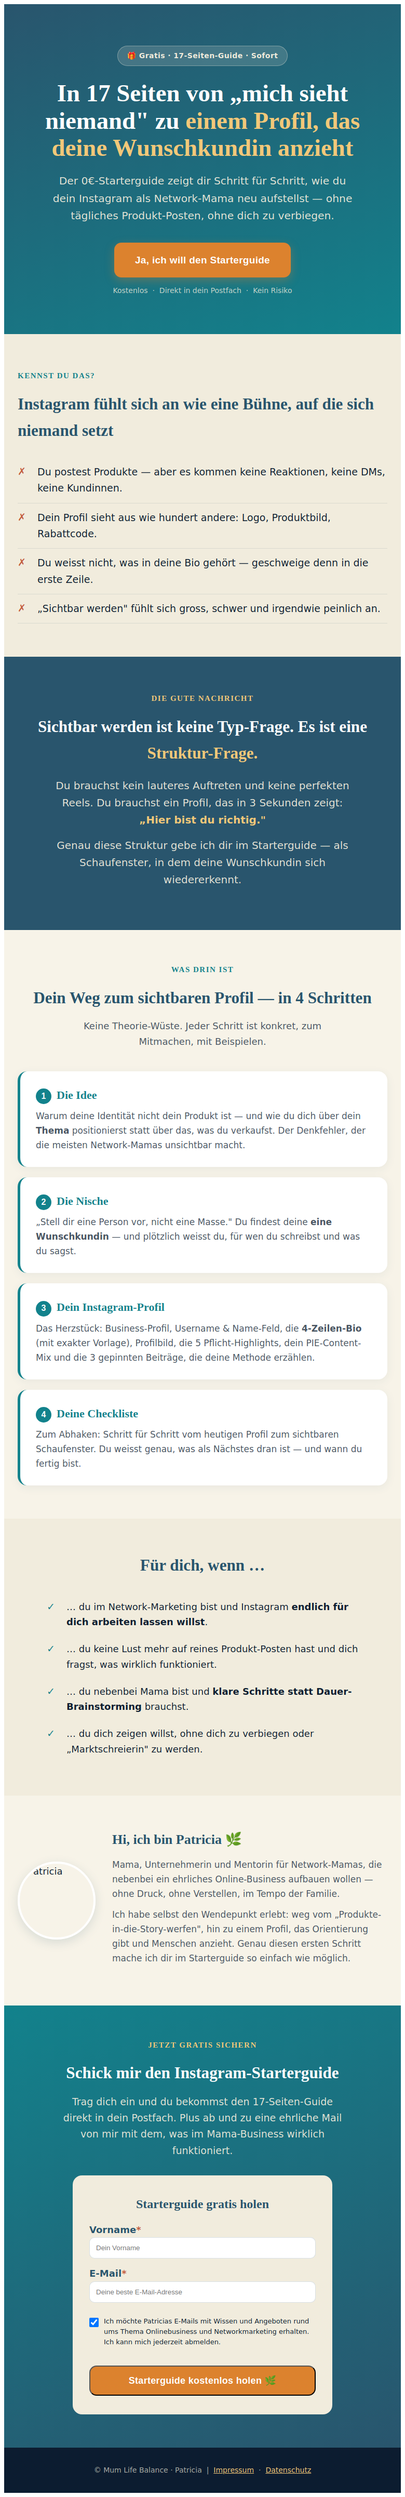
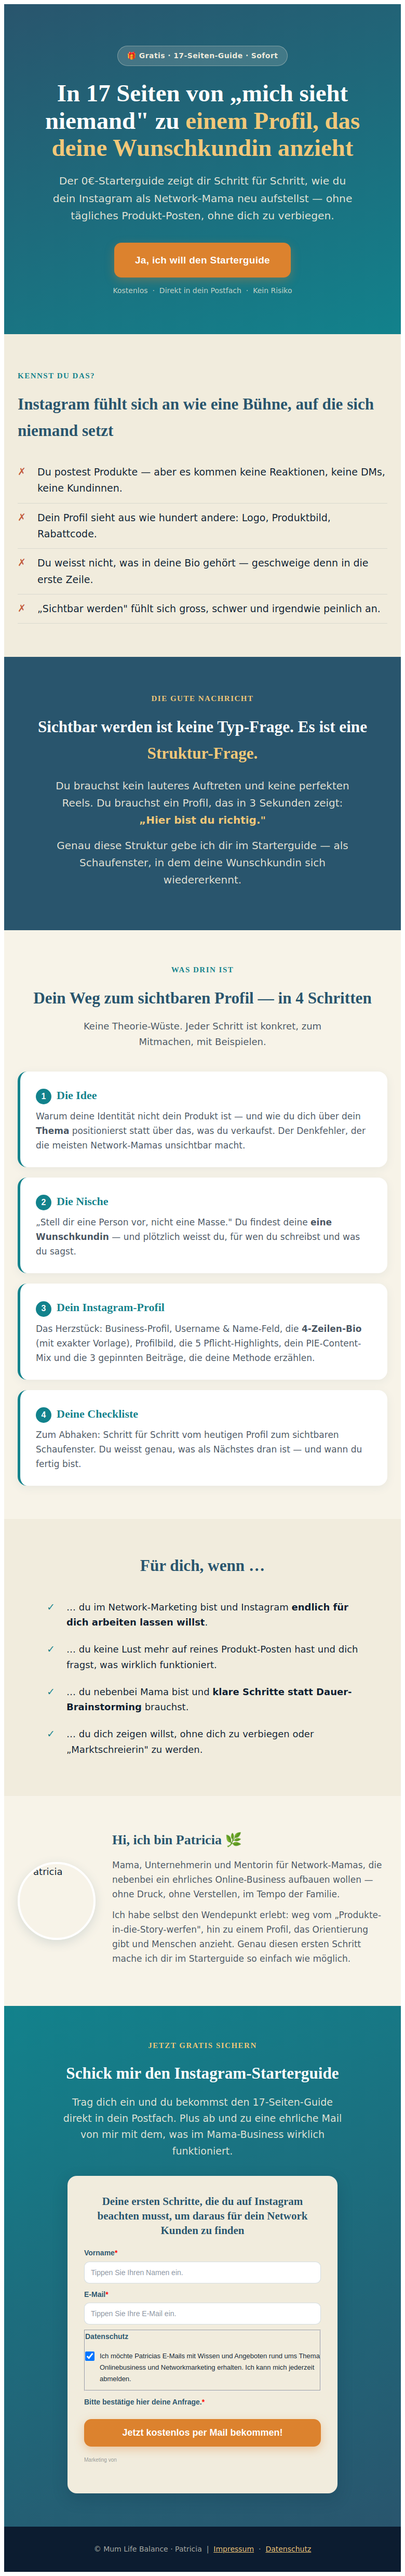
Starterguide-Landing: echtes AC-Formular #53 eingesetzt
- Platzhalter durch Patricias AC-Embed (Form 53, Token db2daad7...)
  ersetzt — inkl. reCAPTCHA + AC-Submit-Script
- Brand-Override nach dem Embed (Creme-Karte, Petrol-Titel, Orange-Button)
- briefing.md + active-funnels.json TODO-Status aktualisiert
- Preview neu gerendert

https://claude.ai/code/session_01S6q6n3ALuiBtnrG9B5yQJN

Changed region(s): [[0.0, 0.0, 1.0, 0.9988]]

diff --git a/outputs/funnels/0-euro-starterguide/landing/index.html b/outputs/funnels/0-euro-starterguide/landing/index.html
@@ -128,21 +128,9 @@
 .slg-optin h2 { font-size: clamp(26px, 4vw, 36px); color: #ffffff; margin-bottom: 14px; }
 .slg-optin > .slg-inner > p { color: rgba(241,236,221,0.94); font-size: 19px; max-width: 540px; margin: 0 auto 32px; }
 
-/* ---------- AC FORM Brand-Override ---------- */
-#_form_STG_ { max-width: 500px; margin: 0 auto !important; background: #f1ecdd !important; padding: 36px 32px !important; border-radius: 18px !important; color-scheme: light only; text-align: left; }
-#_form_STG_ ._submit { background: #dc822e !important; color: #ffffff !important; font-weight: 700 !important; padding: 16px 32px !important; font-size: 18px !important; border-radius: 14px !important; letter-spacing: 0.3px !important; width: 100% !important; margin-top: 8px !important; cursor: pointer !important; transition: transform 0.12s ease, box-shadow 0.2s ease !important; font-family: 'Source Sans 3', sans-serif !important; }
-#_form_STG_ ._submit:hover { transform: translateY(-2px); box-shadow: 0 8px 22px rgba(220, 130, 46, 0.4); }
-#_form_STG_ ._submit:after { content: "Starterguide kostenlos holen 🌿"; }
-#_form_STG_ ._form-title { font-family: 'Philosopher', Georgia, serif !important; color: #29556d !important; font-size: 24px !important; font-weight: 700 !important; margin-bottom: 14px !important; text-align: center !important; }
-#_form_STG_ ._form-label, #_form_STG_ ._form_element ._form-label { color: #29556d !important; font-weight: 700 !important; }
-#_form_STG_ input[type="text"], #_form_STG_ input[type="email"] { background: #ffffff !important; border: 1.5px solid rgba(41,85,109,0.18) !important; border-radius: 10px !important; padding: 12px !important; width: 100% !important; }
-#_form_STG_ ._row._checkbox-radio { display: flex !important; align-items: flex-start !important; gap: 10px !important; padding: 12px 0 !important; }
-#_form_STG_ ._row._checkbox-radio input[type="checkbox"] { margin-top: 3px !important; flex-shrink: 0 !important; width: 18px !important; height: 18px !important; }
-#_form_STG_ ._row._checkbox-radio span { display: block !important; flex: 1 !important; }
-#_form_STG_ ._row._checkbox-radio label { color: #0c1c30 !important; font-size: 13px !important; line-height: 1.55 !important; font-weight: 400 !important; display: block !important; }
-#_form_STG_ ._form_element { margin-bottom: 14px; }
-#_form_STG_ ._field-wrapper { position: relative; }
-#_form_STG_ .field-required { color: #c25a3c; }
+/* (AC-Formular #53 bringt eigene Styles mit; Brand-Override steht
+   als eigener <style>-Block direkt NACH dem Embed weiter unten,
+   damit er die AC-Defaults zuverlässig überschreibt.) */
 
 /* ---------- FOOTER ---------- */
 .slg-foot { background: #0c1c30; color: rgba(241,236,221,0.7); text-align: center; padding: 32px 0; font-size: 14px; }
@@ -254,62 +242,287 @@
       <p>Trag dich ein und du bekommst den 17-Seiten-Guide direkt in dein Postfach. Plus ab und zu eine ehrliche Mail von mir mit dem, was im Mama-Business wirklich funktioniert.</p>
 
       <!-- ============================================================
-        ⚠  ACTIVECAMPAIGN-FORMULAR — PLATZHALTER
-        ------------------------------------------------------------
-        Dieses Formular ist die Bio-Check-Vorlage, umbenannt auf _STG_.
-        BEVOR LIVE: In ActiveCampaign ein eigenes Formular für den
-        „Instagram-Starterguide" anlegen (mit Automation: PDF senden)
-        und folgende 4 Werte ersetzen:
-          1. action-URL bleibt: https://mumlifebalance.activehosted.com/proc.php
-          2. name="u"  value=""  → AC-Form-ID eintragen
-          3. name="f"  value=""  → AC-Form-ID eintragen (gleich wie u)
-          4. name="or" value=""  → AC-Form-Token (or-Hash) eintragen
-        Den fertigen AC-Embed-Code kannst du auch komplett hier reinkopieren —
-        nur die Brand-Override-Styles (#_form_STG_) auf die neue Form-ID anpassen.
+        ACTIVECAMPAIGN-FORMULAR #53 (Instagram-Starterguide)
+        Token: db2daad7-aa19-4b73-a6de-63c5735b0fc0
+        Original-Embed von Patricia eingesetzt am 2026-06-10.
+        Brand-Override-Styles stehen als <style>-Block direkt NACH dem
+        Embed (damit sie die AC-Default-Styles überschreiben).
         ============================================================ -->
-      <form method="POST" action="https://mumlifebalance.activehosted.com/proc.php" id="_form_STG_" class="_form _form_STG _inline-form" novalidate data-styles-version="5">
-        <input type="hidden" name="u" value="STARTERGUIDE_AC_FORM_ID" />
-        <input type="hidden" name="f" value="STARTERGUIDE_AC_FORM_ID" />
+      <!-- ===== AC-Embed #53 (Original von Patricia) ===== -->
+      <style>
+      #_form_53_{font-size:14px;line-height:1.6;font-family:arial, helvetica, sans-serif;margin:0;box-shadow:none}._form_hide{display:none;visibility:hidden}._form_show{display:block;visibility:visible}#_form_53_._form-top{top:0}#_form_53_._form-bottom{bottom:0}#_form_53_._form-left{left:0}#_form_53_._form-right{right:0}#_form_53_ input[type="text"],#_form_53_ input[type="tel"],#_form_53_ input[type="date"],#_form_53_ textarea{padding:8px;height:auto;border:#979797 1px solid;border-radius:4px;color:#000 !important;font-size:14px;box-sizing:border-box}#_form_53_ textarea{resize:none}#_form_53_ input::placeholder{color:#142341}#_form_53_ ._submit{cursor:pointer;font-family:arial, sans-serif;font-size:14px;text-align:center;background:#ffffff !important;border:0 !important;border-radius:4px !important;color:#080808 !important;padding:10px !important}#_form_53_ ._submit:disabled{cursor:not-allowed;opacity:0.4}#_form_53_ ._close-icon{cursor:pointer;background-image:url("https://d226aj4ao1t61q.cloudfront.net/esfkyjh1u_forms-close-dark.png");background-repeat:no-repeat;background-size:14.2px 14.2px;position:absolute;display:block;top:11px;right:9px;overflow:hidden;width:16.2px;height:16.2px}#_form_53_ ._form-body{font-family:sans-serif;font-size:14px;font-weight:400;color:black;margin-bottom:30px}#_form_53_ ._form-branding{color:#fff;font-size:10px;clear:both;text-align:left;margin-top:30px;font-weight:100}#_form_53_ ._form-branding ._logo{display:block;width:130px;height:14px;margin-top:6px;background-image:url("https://d226aj4ao1t61q.cloudfront.net/hh9ujqgv5_aclogo_li.png");background-size:130px auto;background-repeat:no-repeat}#_form_53_ .form-sr-only{position:absolute;width:1px;height:1px;padding:0;margin:-1px;overflow:hidden;clip:rect(0, 0, 0, 0);border:0}#_form_53_ ._form-label,#_form_53_ ._form_element ._form-label{font-weight:bold;margin-bottom:5px;display:block}#_form_53_ ._form_element{position:relative;margin-bottom:10px;max-width:100%}#_form_53_ ._form_element *{font-size:14px}#_form_53_ ._form_element._clear{clear:both;width:100%;float:none}#_form_53_ ._form_element._clear:after{clear:left}#_form_53_ ._form_element input[type="text"],#_form_53_ ._form_element input[type="date"],#_form_53_ ._form_element select,#_form_53_ ._form_element textarea:not(.g-recaptcha-response){display:block;width:100%;box-sizing:border-box;font-family:inherit}#_form_53_ ._field-wrapper{position:relative}#_form_53_ ._form_full_field{display:block;width:100%;margin-bottom:10px}#_form_53_ input[type="text"]._has_error,#_form_53_ textarea._has_error{border:#F37C7B 1px solid}#_form_53_ input[type="checkbox"]._has_error{outline:#F37C7B 1px solid}#_form_53_ ._error{display:block;position:absolute;font-size:14px;z-index:10000001}#_form_53_ ._error._above{padding-bottom:4px;bottom:39px;right:0}#_form_53_ ._error._below{padding-top:8px;top:100%;right:0}#_form_53_ ._error-inner{padding:12px 12px 12px 36px;background-color:#FFDDDD;background-repeat:no-repeat;background-position:12px center;font-size:14px;font-family:arial, sans-serif;font-weight:600;line-height:16px;color:#000;text-align:center;text-decoration:none;border-radius:4px;box-shadow:0 1px 4px rgba(31, 33, 41, 0.298295)}#_form_53_ ._error-inner._form_error{margin-bottom:5px;text-align:left}#_form_53_ ._error-inner._no_arrow{margin-bottom:10px}#_form_53_ ._error-arrow{position:absolute;width:0;height:0}#_form_53_ ._error-html{margin-bottom:10px}#_form_53_ ._form-title{font-family:sans-serif;font-size:24px;font-weight:400;color:black}#_form_53_ .field-required{color:#FF0000}#_form_53_{position:relative;text-align:left;margin:25px auto 0;padding:20px;box-sizing:border-box;background:#dc822e !important;border:0px solid #b0b0b0 !important;max-width:500px;border-radius:0px !important;color:#000000}#_form_53_._inline-form ._form-label,#_form_53_._inline-form ._form-checkbox-option-label{font-family:sans-serif;font-size:14px;font-weight:700;line-height:1.6em;color:black}#_form_53_._inline-form ._row span:not(.field-required),#_form_53_._inline-form ._row label{font-family:sans-serif;font-size:14px;font-weight:400;line-height:1.6em;color:black}#_form_53_ ._form-thank-you{position:relative;left:0;right:0;text-align:center;font-size:18px}#_form_53_ .g-recaptcha{margin-top:10px}
+      </style>
+      <form method="POST" action="https://mumlifebalance.activehosted.com/proc.php" id="_form_53_" class="_form _form_53 _inline-form  " novalidate data-styles-version="5">
+        <input type="hidden" name="u" value="53" />
+        <input type="hidden" name="f" value="53" />
         <input type="hidden" name="s" />
         <input type="hidden" name="c" value="0" />
         <input type="hidden" name="m" value="0" />
         <input type="hidden" name="act" value="sub" />
         <input type="hidden" name="v" value="2" />
-        <input type="hidden" name="or" value="STARTERGUIDE_AC_TOKEN" />
+        <input type="hidden" name="or" value="db2daad7-aa19-4b73-a6de-63c5735b0fc0" />
         <div class="_form-content">
-          <div class="_form_element _full_width _clear">
-            <h2 class="_form-title">Starterguide gratis holen</h2>
+          <div class="_form_element _x07614776 _full_width _clear">
+            <h2 class="_form-title">Deine ersten Schritte, die du auf Instagram beachten musst, um daraus für dein Network Kunden zu finden</h2>
           </div>
-          <div class="_form_element _full_width">
-            <label for="stg_fullname" class="_form-label">Vorname<span class="field-required">*</span></label>
+          <div class="_form_element _x85148327 _full_width">
+            <label for="fullname" class="_form-label">Vorname<span class="field-required">*</span></label>
             <div class="_field-wrapper">
-              <input type="text" id="stg_fullname" name="fullname" placeholder="Dein Vorname" required />
+              <input type="text" id="fullname" name="fullname" placeholder="Tippen Sie Ihren Namen ein." required/>
             </div>
           </div>
-          <div class="_form_element _full_width">
-            <label for="stg_email" class="_form-label">E-Mail<span class="field-required">*</span></label>
+          <div class="_form_element _x44803942 _full_width">
+            <label for="email" class="_form-label">E-Mail<span class="field-required">*</span></label>
             <div class="_field-wrapper">
-              <input type="text" id="stg_email" name="email" placeholder="Deine beste E-Mail-Adresse" required />
+              <input type="text" id="email" name="email" placeholder="Tippen Sie Ihre E-Mail ein." required/>
             </div>
           </div>
-          <div class="_form_element _full_width">
-            <fieldset class="_form-fieldset" style="border:0;padding:0;margin:0;">
+          <div class="_form_element _x25783284 _full_width">
+            <fieldset class="_form-fieldset">
+              <div class="_row">
+                <legend for="field[1][]" class="_form-label">Datenschutz</legend>
+              </div>
               <input data-autofill="false" type="hidden" id="field[1][]" name="field[1][]" value="~|">
               <div class="_row _checkbox-radio">
-                <input id="stg_consent" type="checkbox" name="field[1][]" value="Ich möchte Patricias E-Mails mit Wissen und Angeboten rund ums Thema Onlinebusiness und Networkmarketing erhalten. Ich kann mich jederzeit abmelden." checked>
+                <input id="field_1consent" type="checkbox" name="field[1][]" value="Ich möchte Patricias E-Mails mit Wissen und Angeboten rund ums Thema Onlinebusiness und Networkmarketing erhalten. Ich kann mich jederzeit abmelden." checked>
                 <span>
-                  <label for="stg_consent">Ich möchte Patricias E-Mails mit Wissen und Angeboten rund ums Thema Onlinebusiness und Networkmarketing erhalten. Ich kann mich jederzeit abmelden.</label>
+                  <label for="field_1consent">Ich möchte Patricias E-Mails mit Wissen und Angeboten rund ums Thema Onlinebusiness und Networkmarketing erhalten. Ich kann mich jederzeit abmelden.</label>
                 </span>
               </div>
             </fieldset>
           </div>
+          <div class="_form_element _x47057123 _full_width">
+            <label for="g-recaptcha-response" class="_form-label">Bitte bestätige hier deine Anfrage.<span class="field-required">*</span></label>
+            <div class="g-recaptcha" data-sitekey="6LcwIw8TAAAAACP1ysM08EhCgzd6q5JAOUR1a0Go"></div>
+          </div>
           <div class="_button-wrapper _full_width">
-            <button id="_form_STG_submit" class="_submit" type="submit"></button>
+            <button id="_form_53_submit" class="_submit" type="submit">Jetzt kostenlos per Mail bekommen!</button>
           </div>
           <div class="_clear-element"></div>
         </div>
         <div class="_form-thank-you" style="display:none;"></div>
+        <div class="_form-branding">
+          <div class="_marketing-by">Marketing von</div>
+          <a href="https://www.activecampaign.com/?utm_medium=referral&utm_campaign=acforms" class="_logo"><span class="form-sr-only">ActiveCampaign</span></a>
+        </div>
       </form>
+      <script>
+      window.cfields = {"1":"datenschutz"};
+      window._show_thank_you = function(id, message, trackcmp_url, email) {
+          var form = document.getElementById('_form_' + id + '_'), thank_you = form.querySelector('._form-thank-you');
+          form.querySelector('._form-content').style.display = 'none';
+          thank_you.innerHTML = message;
+          thank_you.style.display = 'block';
+          const vgoAlias = typeof visitorGlobalObjectAlias === 'undefined' ? 'vgo' : visitorGlobalObjectAlias;
+          var visitorObject = window[vgoAlias];
+          if (email && typeof visitorObject !== 'undefined') {
+              visitorObject('setEmail', email);
+              visitorObject('update');
+          } else if (typeof(trackcmp_url) != 'undefined' && trackcmp_url) {
+              _load_script(trackcmp_url);
+          }
+          if (typeof window._form_callback !== 'undefined') window._form_callback(id);
+          thank_you.setAttribute('tabindex', '-1');
+          thank_you.focus();
+      };
+      window._show_error = function(id, message, html) {
+          var form = document.getElementById('_form_' + id + '_'),
+              err = document.createElement('div'),
+              button = form.querySelector('button[type="submit"]'),
+              old_error = form.querySelector('._form_error');
+          if (old_error) old_error.parentNode.removeChild(old_error);
+          err.innerHTML = message;
+          err.className = '_error-inner _form_error _no_arrow';
+          var wrapper = document.createElement('div');
+          wrapper.className = '_form-inner _show_be_error';
+          wrapper.appendChild(err);
+          button.parentNode.insertBefore(wrapper, button);
+          var submitButton = form.querySelector('[id^="_form"][id$="_submit"]');
+          submitButton.disabled = false;
+          submitButton.classList.remove('processing');
+          if (html) {
+              var div = document.createElement('div');
+              div.className = '_error-html';
+              div.innerHTML = html;
+              err.appendChild(div);
+          }
+      };
+      window._load_script = function(url, callback, isSubmit) {
+          var head = document.querySelector('head'), script = document.createElement('script'), r = false;
+          var submitButton = document.querySelector('#_form_53_submit');
+          script.charset = 'utf-8';
+          script.src = url;
+          if (callback) {
+              script.onload = script.onreadystatechange = function() {
+                  if (!r && (!this.readyState || this.readyState == 'complete')) { r = true; callback(); }
+              };
+          }
+          script.onerror = function() {
+              if (isSubmit) {
+                  if (script.src.length > 10000) {
+                      _show_error("53", "Ihre Übermittlung konnte nicht gesendet werden. Bitte kürzen Sie Ihre Antworten und versuche es erneut.");
+                  } else {
+                      _show_error("53", "Ihre Übermittlung konnte nicht gesendet werden. Bitte versuchen Sie es erneut.");
+                  }
+                  submitButton.disabled = false;
+                  submitButton.classList.remove('processing');
+              }
+          }
+          head.appendChild(script);
+      };
+      (function() {
+          if (window.location.search.search("excludeform") !== -1) return false;
+          var addEvent = function(element, event, func) {
+              if (element.addEventListener) { element.addEventListener(event, func); }
+              else { var oldFunc = element['on' + event]; element['on' + event] = function() { oldFunc.apply(this, arguments); func.apply(this, arguments); }; }
+          }
+          var form_to_submit = document.getElementById('_form_53_');
+          var allInputs = form_to_submit.querySelectorAll('input, select, textarea'), tooltips = [], submitted = false;
+          var getUrlParam = function(name) {
+              var params = new URLSearchParams(window.location.search);
+              return params.get(name) || false;
+          };
+          for (var i = 0; i < allInputs.length; i++) {
+              var regexStr = "field\\[(\\d+)\\]";
+              var results = new RegExp(regexStr).exec(allInputs[i].name);
+              allInputs[i].dataset.name = results ? window.cfields[results[1]] : allInputs[i].name;
+              var fieldVal = getUrlParam(allInputs[i].dataset.name);
+              if (fieldVal && allInputs[i].dataset.autofill !== "false") {
+                  if (allInputs[i].type == "radio" || allInputs[i].type == "checkbox") {
+                      if (allInputs[i].value == fieldVal) allInputs[i].checked = true;
+                  } else { allInputs[i].value = fieldVal; }
+              }
+          }
+          var remove_tooltips = function() { for (var i = 0; i < tooltips.length; i++) { tooltips[i].tip.parentNode.removeChild(tooltips[i].tip); } tooltips = []; };
+          var remove_tooltip = function(elem) { for (var i = 0; i < tooltips.length; i++) { if (tooltips[i].elem === elem) { tooltips[i].tip.parentNode.removeChild(tooltips[i].tip); tooltips.splice(i, 1); return; } } };
+          var create_tooltip = function(elem, text) {
+              var tooltip = document.createElement('div'), arrow = document.createElement('div'), inner = document.createElement('div'), new_tooltip = {};
+              tooltip.id = elem.id + '-error'; tooltip.setAttribute('role', 'alert');
+              if (elem.type != 'radio' && (elem.type != 'checkbox' || elem.name === 'sms_consent')) {
+                  tooltip.className = '_error'; arrow.className = '_error-arrow'; inner.className = '_error-inner'; inner.innerHTML = text;
+                  tooltip.appendChild(arrow); tooltip.appendChild(inner); elem.parentNode.appendChild(tooltip);
+              } else {
+                  tooltip.className = '_error-inner _no_arrow'; tooltip.innerHTML = text; elem.parentNode.insertBefore(tooltip, elem); new_tooltip.no_arrow = true;
+              }
+              new_tooltip.tip = tooltip; new_tooltip.elem = elem; tooltips.push(new_tooltip); return new_tooltip;
+          };
+          var resize_tooltip = function(tooltip) {
+              var rect = tooltip.elem.getBoundingClientRect();
+              var doc = document.documentElement, scrollPosition = rect.top - ((window.pageYOffset || doc.scrollTop) - (doc.clientTop || 0));
+              tooltip.tip.className = tooltip.tip.className.replace(/ ?(_above|_below) ?/g, '') + (scrollPosition < 40 ? ' _below' : ' _above');
+          };
+          var resize_tooltips = function() { for (var i = 0; i < tooltips.length; i++) { if (!tooltips[i].no_arrow) resize_tooltip(tooltips[i]); } };
+          var validate_field = function(elem, remove) {
+              var tooltip = null, value = elem.value, no_error = true;
+              remove ? remove_tooltip(elem) : false;
+              elem.removeAttribute('aria-invalid');
+              if (elem.type != 'checkbox') elem.className = elem.className.replace(/ ?_has_error ?/g, '');
+              if (elem.getAttribute('required') !== null) {
+                  if (elem.type == 'radio' || (elem.type == 'checkbox' && /any/.test(elem.className))) {
+                      var elems = form_to_submit.elements[elem.name];
+                      if (!(elems instanceof NodeList || elems instanceof HTMLCollection) || elems.length <= 1) { no_error = elem.checked; }
+                      else { no_error = false; for (var i = 0; i < elems.length; i++) { if (elems[i].checked) no_error = true; } }
+                      if (!no_error) { tooltip = create_tooltip(elem, "Bitte eine Option auswählen."); }
+                  } else if (elem.type == 'checkbox') {
+                      var elems = form_to_submit.elements[elem.name], found = false, err = [];
+                      no_error = true;
+                      for (var i = 0; i < elems.length; i++) {
+                          if (elems[i].getAttribute('required') === null) continue;
+                          if (!found && elems[i] !== elem) return true;
+                          found = true; elems[i].className = elems[i].className.replace(/ ?_has_error ?/g, '');
+                          if (!elems[i].checked) { no_error = false; elems[i].className = elems[i].className + ' _has_error'; err.push("Die Markierung von %s ist erforderlich.".replace("%s", elems[i].value)); }
+                      }
+                      if (!no_error) { tooltip = create_tooltip(elem, err.join('<br/>')); }
+                  } else if (value === undefined || value === null || value === '') {
+                      elem.className = elem.className + ' _has_error'; no_error = false; tooltip = create_tooltip(elem, "Bitte füllen Sie das markierte Pflichtfeld aus.");
+                  }
+              }
+              if (no_error && elem.name == 'email') {
+                  if (!value.match(/^[\+_a-z0-9-'&=]+(\.[\+_a-z0-9-']+)*@[a-z0-9-]+(\.[a-z0-9-]+)*(\.[a-z]{2,})$/i)) {
+                      elem.className = elem.className + ' _has_error'; no_error = false; tooltip = create_tooltip(elem, "Geben Sie eine gültige E-Mail-Adresse ein.");
+                  }
+              }
+              tooltip ? resize_tooltip(tooltip) : false;
+              return no_error;
+          };
+          var needs_validate = function(el) {
+              if (el.getAttribute('required') !== null) return true;
+              if (el.name === 'email' && el.value !== "") return true;
+              return false;
+          };
+          var validate_form = function(e) {
+              var no_error = true;
+              if (!submitted) {
+                  submitted = true;
+                  for (var i = 0, len = allInputs.length; i < len; i++) {
+                      var input = allInputs[i];
+                      if (needs_validate(input)) {
+                          if (input.type == 'text' || input.type == 'number' || input.type == 'tel') {
+                              addEvent(input, 'blur', function() { this.value = this.value.trim(); validate_field(this, true); });
+                              addEvent(input, 'input', function() { validate_field(this, true); });
+                          } else if (input.type == 'radio' || input.type == 'checkbox') {
+                              (function(el) {
+                                  var radios = Array.isArray(form_to_submit.elements[el.name]) ? form_to_submit.elements[el.name] : [form_to_submit.elements[el.name]];
+                                  for (var i = 0; i < radios.length; i++) { addEvent(radios[i], 'change', function() { validate_field(el, true); }); }
+                              })(input);
+                          }
+                      }
+                  }
+              }
+              remove_tooltips();
+              for (var i = 0, len = allInputs.length; i < len; i++) {
+                  var elem = allInputs[i];
+                  if (needs_validate(elem)) { if (elem.tagName.toLowerCase() !== "select") { elem.value = elem.value.trim(); } validate_field(elem) ? true : no_error = false; }
+              }
+              if (!no_error && e) { e.preventDefault(); }
+              resize_tooltips();
+              return no_error;
+          };
+          addEvent(window, 'resize', resize_tooltips);
+          addEvent(window, 'scroll', resize_tooltips);
+          window['recaptcha_callback'] = function() {
+              var recaptchas = document.getElementsByClassName("g-recaptcha");
+              for (var i in recaptchas) {
+                  var recaptcha_id = "recaptcha_" + i;
+                  recaptchas[i].id = recaptcha_id;
+                  var el = document.getElementById(recaptcha_id);
+                  if (el != null) { grecaptcha.render(recaptcha_id, {"sitekey": el.getAttribute("data-sitekey"), "stoken": el.getAttribute("data-stoken")}); }
+              }
+          };
+          _load_script("https://www.google.com/recaptcha/api.js?onload=recaptcha_callback&render=explicit");
+          var _form_serialize = function(form){if(!form||form.nodeName!=="FORM"){return }var i,j,q=[];for(i=0;i<form.elements.length;i++){if(form.elements[i].name===""){continue}switch(form.elements[i].nodeName){case"INPUT":switch(form.elements[i].type){case"text":case"number":case"date":case"time":case"hidden":case"password":case"button":case"reset":case"submit":q.push(form.elements[i].name+"="+encodeURIComponent(form.elements[i].value));break;case"checkbox":case"radio":if(form.elements[i].checked){q.push(form.elements[i].name+"="+encodeURIComponent(form.elements[i].value))}break;case"file":break}break;case"TEXTAREA":q.push(form.elements[i].name+"="+encodeURIComponent(form.elements[i].value));break;case"SELECT":switch(form.elements[i].type){case"select-one":q.push(form.elements[i].name+"="+encodeURIComponent(form.elements[i].value));break;case"select-multiple":for(j=0;j<form.elements[i].options.length;j++){if(form.elements[i].options[j].selected){q.push(form.elements[i].name+"="+encodeURIComponent(form.elements[i].options[j].value))}}break}break;case"BUTTON":switch(form.elements[i].type){case"reset":case"submit":case"button":q.push(form.elements[i].name+"="+encodeURIComponent(form.elements[i].value));break}break}}return q.join("&")};
+          var form_submit = function(e) {
+              e.preventDefault();
+              if (validate_form()) {
+                  var submitButton = e.target.querySelector('#_form_53_submit');
+                  submitButton.disabled = true;
+                  submitButton.classList.add('processing');
+                  var serialized = _form_serialize(document.getElementById('_form_53_')).replace(/%0A/g, '\\n');
+                  var err = form_to_submit.querySelector('._form_error');
+                  err ? err.parentNode.removeChild(err) : false;
+                  _load_script('https://mumlifebalance.activehosted.com/proc.php?' + serialized + '&jsonp=true', null, true);
+              }
+              return false;
+          };
+          addEvent(form_to_submit, 'submit', form_submit);
+      })();
+      </script>
+      <!-- ===== Brand-Override (steht NACH dem Embed → gewinnt) ===== -->
+      <style>
+      #_form_53_ { max-width: 520px !important; margin: 0 auto !important; background: #f1ecdd !important; padding: 36px 32px !important; border-radius: 18px !important; color-scheme: light only; box-shadow: 0 10px 30px rgba(12,28,48,0.18) !important; }
+      #_form_53_ ._form-title { font-family: 'Philosopher', Georgia, serif !important; color: #29556d !important; font-size: 21px !important; font-weight: 700 !important; line-height: 1.32 !important; margin-bottom: 18px !important; text-align: center !important; }
+      #_form_53_ ._form-label, #_form_53_ ._form_element ._form-label, #_form_53_ legend._form-label { color: #29556d !important; font-weight: 700 !important; }
+      #_form_53_ input[type="text"], #_form_53_ input[type="email"] { background: #ffffff !important; border: 1.5px solid rgba(41,85,109,0.2) !important; border-radius: 10px !important; padding: 12px !important; color: #0c1c30 !important; }
+      #_form_53_ input::placeholder { color: #8a93a0 !important; }
+      #_form_53_ ._submit { background: #dc822e !important; color: #ffffff !important; font-family: 'Source Sans 3', sans-serif !important; font-weight: 700 !important; font-size: 18px !important; padding: 16px 28px !important; border-radius: 14px !important; width: 100% !important; margin-top: 12px !important; cursor: pointer !important; transition: transform 0.12s ease, box-shadow 0.2s ease !important; box-shadow: 0 6px 18px rgba(220,130,46,0.35) !important; }
+      #_form_53_ ._submit:hover { transform: translateY(-2px); box-shadow: 0 10px 26px rgba(220,130,46,0.45) !important; }
+      #_form_53_ ._row._checkbox-radio { display: flex !important; align-items: flex-start !important; gap: 10px !important; padding: 10px 0 !important; }
+      #_form_53_ ._row._checkbox-radio input[type="checkbox"] { margin-top: 3px !important; flex-shrink: 0 !important; width: 18px !important; height: 18px !important; }
+      #_form_53_ ._row._checkbox-radio span { flex: 1 !important; }
+      #_form_53_ ._row._checkbox-radio label, #_form_53_._inline-form ._row label { color: #0c1c30 !important; font-size: 13px !important; line-height: 1.55 !important; font-weight: 400 !important; }
+      #_form_53_ legend._form-label { font-size: 14px !important; margin-bottom: 4px !important; }
+      #_form_53_ ._form-branding { color: rgba(12,28,48,0.45) !important; margin-top: 18px !important; }
+      </style>
     </div>
   </section>
 

diff --git a/outputs/funnels/0-euro-starterguide/briefing.md b/outputs/funnels/0-euro-starterguide/briefing.md
@@ -37,16 +37,20 @@ Inhaltsquelle: `context/patricia-freebies.md` → Abschnitt „3. 0€ Starter-G
 
 ---
 
+## ✅ Erledigt
+
+- **AC-Formular** angelegt: **Form #53**, Token `db2daad7-aa19-4b73-a6de-63c5735b0fc0` (Headline: „Deine ersten Schritte, die du auf Instagram beachten musst, um daraus für dein Network Kunden zu finden")
+- Echter Embed-Code (inkl. reCAPTCHA + AC-Script) in `landing/index.html` eingesetzt, Brand-Override drübergelegt (Creme-Karte / Petrol-Titel / oranger Button)
+
 ## ⚠ Offene TODOs vor Live-Schaltung
 
 | # | Aufgabe | Wer |
 |---|---------|-----|
-| 1 | **AC-Formular** für den Starterguide in ActiveCampaign anlegen (mit Automation: PDF senden) | Patricia |
-| 2 | In `landing/index.html` die Platzhalter `STARTERGUIDE_AC_FORM_ID` + `STARTERGUIDE_AC_TOKEN` ersetzen | Patricia / Claude |
-| 3 | Deploy: `cd scripts/wordpress && node --env-file=.env deploy-starterguide.js` (braucht `.env` mit WP-App-Password) | Patricia |
-| 4 | WP-Seite prüfen & **publizieren** | Patricia |
-| 5 | **Bio-Link** „Starterguide" → `https://mumlifebalance.ch/instagram-starterguide` umbiegen | Claude (braucht Bio-HTML oder WP-Zugang) |
-| 6 | Alte Netlify-Seite abschalten / weiterleiten | Patricia |
+| 1 | **AC-Automation** prüfen: Trigger „Form #53 abgesendet" → Mail mit Starterguide-PDF | Patricia |
+| 2 | Deploy: `cd scripts/wordpress && node --env-file=.env deploy-starterguide.js` (braucht `.env` mit WP-App-Password) | Patricia |
+| 3 | WP-Seite prüfen & **publizieren** | Patricia |
+| 4 | **Bio-Link** „Starterguide" → `https://mumlifebalance.ch/instagram-starterguide` umbiegen | Claude (braucht Bio-HTML oder WP-Zugang) |
+| 5 | Alte Netlify-Seite abschalten / weiterleiten | Patricia |
 
 ---
 
